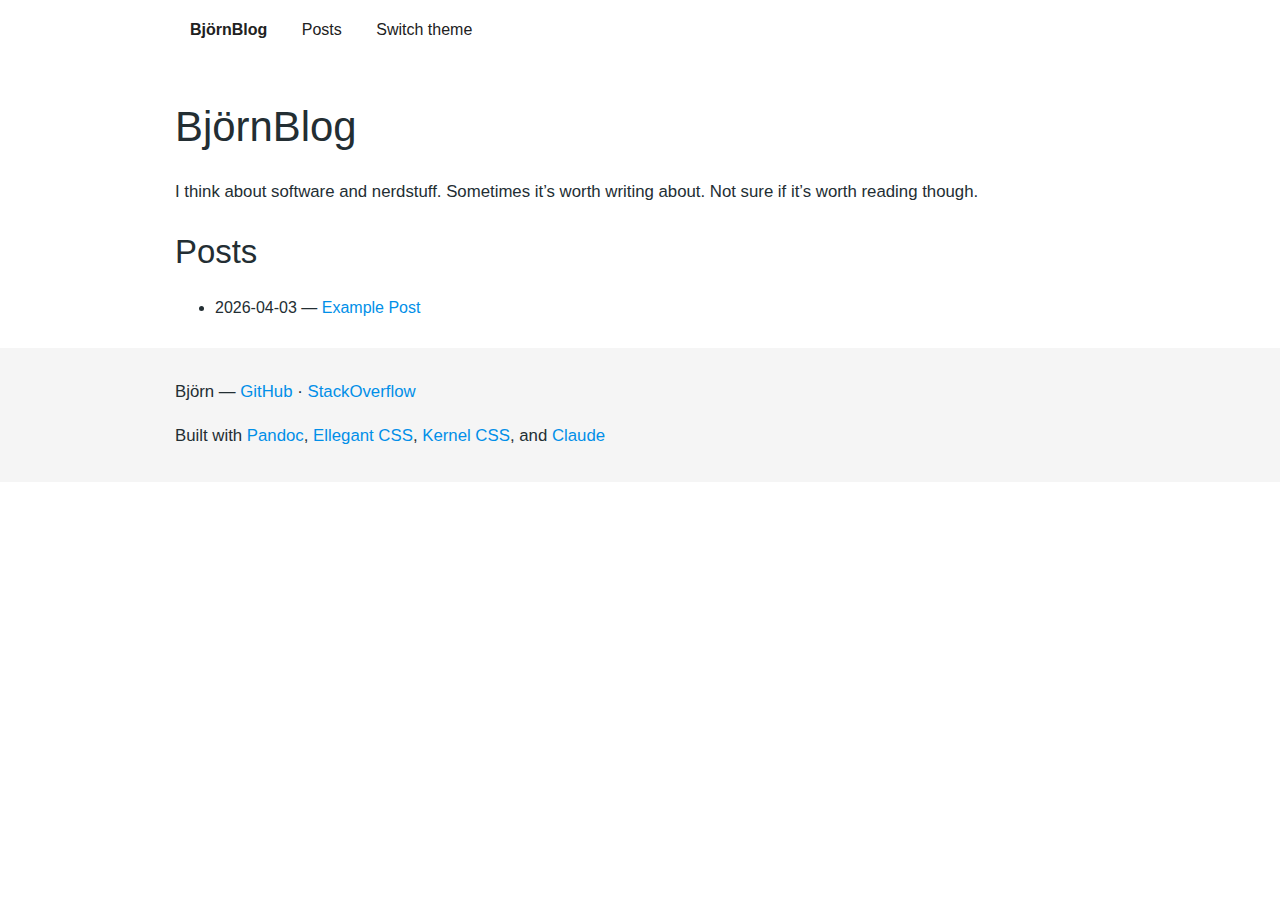
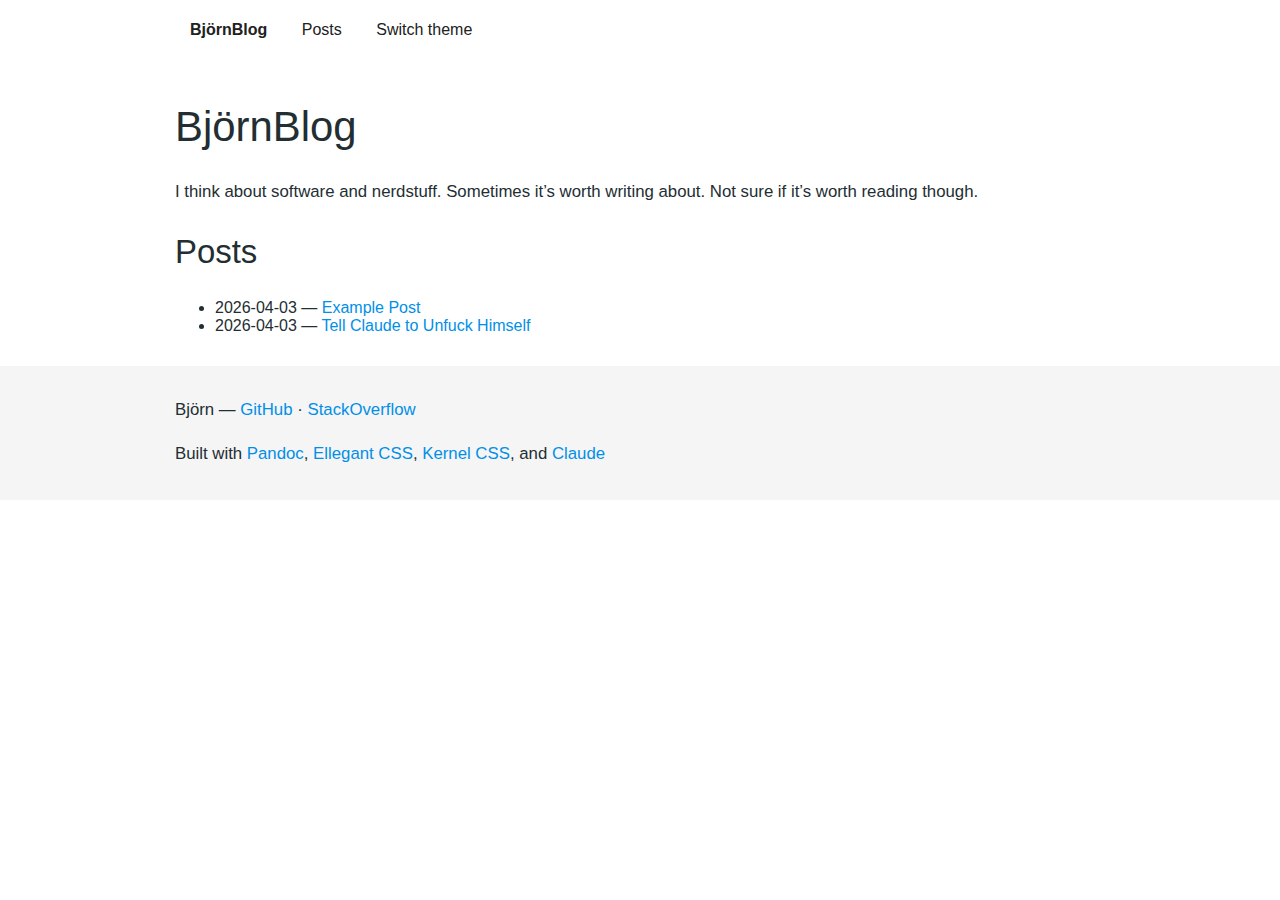
deploy: ef7f1da51cae17365b4fab309fb5aece625130cc

Changed region(s): [[0.125, 0.4044, 0.4688, 0.5289], [0.1562, 0.3422, 0.4062, 0.3733]]

diff --git a/2026-04-03-tell-claude-to-unfuck-himself.html b/2026-04-03-tell-claude-to-unfuck-himself.html
@@ -1,0 +1,121 @@
+<!DOCTYPE html>
+<html lang="en">
+<head>
+  <meta charset="utf-8">
+  <meta name="viewport" content="width=device-width, initial-scale=1.0">
+  <title>Tell Claude to Unfuck Himself | BjörnBlog</title>
+  <meta name="date" content="2026-04-03">
+  <link rel="stylesheet" href="css/ellegant.min.css">
+  <style>
+    body {
+      font-family: -apple-system, "Segoe UI", Helvetica Neue, Arial, sans-serif;
+      color: #2a2a2a;
+      margin: 0;
+      line-height: 1.6;
+    }
+    nav {
+      background: #fafafa;
+      border-bottom: 1px solid #e8e8e8;
+      padding: 10px 20px;
+    }
+    nav a {
+      color: #2a2a2a;
+      text-decoration: none;
+      margin-right: 15px;
+    }
+    nav a:hover { color: #018fe8; }
+    main {
+      max-width: 720px;
+      margin: 0 auto;
+      padding: 20px;
+    }
+    h1, h2, h3, h4, h5, h6 { font-weight: 400; }
+    a { color: #018fe8; }
+    footer {
+      border-top: 1px solid #e8e8e8;
+      padding: 10px 20px;
+      color: #999;
+      text-align: center;
+    }
+  </style>
+</head>
+<body>
+  <header>
+    <nav>
+      <a href="index.html"><strong>BjörnBlog</strong></a>
+      <a href="index.html">Posts</a>
+            <a href="2026-04-03-tell-claude-to-unfuck-himself-kernel.html">Switch theme</a>
+          </nav>
+  </header>
+
+  <main>
+    <h1>Tell Claude to Unfuck Himself</h1>
+    <p><time datetime="2026-04-03">2026-04-03</time></p>
+<p><em>Claude fucked himself into a corner — What now?</em></p>
+<p><strong>Symptom:</strong> He adds layers of onion code and
+workarounds.</p>
+<p><strong>Problem:</strong> The system prompt tells him to be
+conservative and only change small things at a time. It’s hard to compel
+him to do a fresh architecture that breaks old assumptions and
+requirements.</p>
+<p><strong>Solution:</strong></p>
+<ul>
+<li>Tell him to remove the problematic architecture entirely on a new
+branch.
+<ul>
+<li>Planning mode works well here, because you can review where he’ll
+make the cut, and tell him where to add stubs.</li>
+<li>Tell him to leave grepable marker-comments at the
+cutting-boundary.</li>
+</ul></li>
+<li>Implement from scratch in a new session.
+<ul>
+<li>Tell him to research explicitly.</li>
+<li>Relax some constraints. The less he has to worry about, the better
+he can focus on the task at hand.</li>
+<li>Add the constraints back in once he has a working first draft.</li>
+</ul></li>
+</ul>
+<h2 id="example">Example</h2>
+<p>First, create a clean slate:</p>
+<pre><code>We want to create a clean slate for a redesign of the worker
+code, page processing, and pricing.
+
+Delete tasks table and related code. Delete tasks API and
+related code. Delete pricing and task costs and related code.
+
+We expect some tests to fail after achieving clean slate.
+This is fine.</code></pre>
+<p>Then re-implement the feature from scratch in a new session:</p>
+<pre><code>Implement worker with SAQ (saq[postgres]).
+
+- Two task types: DETECT_PAGE (CPU/OpenCV) and
+  ANALYZE_REGIONS (I/O/Anthropic API)
+- See ai.py for the actual code that the worker will run
+- Task triggered via relevant buttons in UI
+- WebSocket push on task completion
+- Fail fast and loud — we&#39;ll handle stability later
+- Stay with official guidelines
+
+Current situation: we removed all the old stuff so we can
+do a complete redesign. Ignore the old implementation
+completely. Starting from scratch.
+
+Todo:
+1. Research SAQ&#39;s Postgres backend
+2. Research SAQ guides
+3. Plan and implement the migration — you are free to
+   restructure the DB model, schema, and constraints
+
+No constraints: you may ignore CLAUDE.md constraints.
+Change the DB schema, status lifecycle, whatever makes the
+SAQ integration clean. Just flag what changed at the end.</code></pre>
+
+  </main>
+
+  <footer>
+    <p>Björn &mdash; <a href="https://github.com/bjuergens">GitHub</a> · <a href="https://stackoverflow.com/users/5132456/wotanii">StackOverflow</a></p>
+    <p>Built with <a href="https://pandoc.org">Pandoc</a>, <a href="https://github.com/ellegantcss/ellegant">Ellegant CSS</a>, <a href="https://github.com/christian-dale/kernel.css">Kernel CSS</a>, and <a href="https://claude.ai">Claude</a></p>
+  </footer>
+</body>
+</html>

diff --git a/2026-04-03-tell-claude-to-unfuck-himself-kernel.html b/2026-04-03-tell-claude-to-unfuck-himself-kernel.html
@@ -1,0 +1,99 @@
+<!DOCTYPE html>
+<html lang="en">
+<head>
+  <meta charset="utf-8">
+  <meta name="viewport" content="width=device-width, initial-scale=1.0">
+  <title>Tell Claude to Unfuck Himself | BjörnBlog</title>
+  <meta name="date" content="2026-04-03">
+  <link rel="stylesheet" href="css/kernel.min.css">
+</head>
+<body class="ke-modern">
+  <header class="ke-header ke-header-sm">
+    <div class="ke-container">
+      <input class="ke-nav-toggle" id="ke-nav-toggle" type="checkbox">
+      <label for="ke-nav-toggle" class="ke-nav-toggle-hamburger"><span>&#9776;</span></label>
+      <nav class="ke-nav">
+        <ul>
+          <li><a href="index-kernel.html"><strong>BjörnBlog</strong></a></li>
+          <li><a href="index-kernel.html">Posts</a></li>
+                    <li><a href="2026-04-03-tell-claude-to-unfuck-himself.html">Switch theme</a></li>
+                  </ul>
+      </nav>
+    </div>
+  </header>
+
+  <main class="ke-container ke-content">
+    <h1>Tell Claude to Unfuck Himself</h1>
+    <p><time datetime="2026-04-03">2026-04-03</time></p>
+<p><em>Claude fucked himself into a corner — What now?</em></p>
+<p><strong>Symptom:</strong> He adds layers of onion code and
+workarounds.</p>
+<p><strong>Problem:</strong> The system prompt tells him to be
+conservative and only change small things at a time. It’s hard to compel
+him to do a fresh architecture that breaks old assumptions and
+requirements.</p>
+<p><strong>Solution:</strong></p>
+<ul>
+<li>Tell him to remove the problematic architecture entirely on a new
+branch.
+<ul>
+<li>Planning mode works well here, because you can review where he’ll
+make the cut, and tell him where to add stubs.</li>
+<li>Tell him to leave grepable marker-comments at the
+cutting-boundary.</li>
+</ul></li>
+<li>Implement from scratch in a new session.
+<ul>
+<li>Tell him to research explicitly.</li>
+<li>Relax some constraints. The less he has to worry about, the better
+he can focus on the task at hand.</li>
+<li>Add the constraints back in once he has a working first draft.</li>
+</ul></li>
+</ul>
+<h2 id="example">Example</h2>
+<p>First, create a clean slate:</p>
+<pre><code>We want to create a clean slate for a redesign of the worker
+code, page processing, and pricing.
+
+Delete tasks table and related code. Delete tasks API and
+related code. Delete pricing and task costs and related code.
+
+We expect some tests to fail after achieving clean slate.
+This is fine.</code></pre>
+<p>Then re-implement the feature from scratch in a new session:</p>
+<pre><code>Implement worker with SAQ (saq[postgres]).
+
+- Two task types: DETECT_PAGE (CPU/OpenCV) and
+  ANALYZE_REGIONS (I/O/Anthropic API)
+- See ai.py for the actual code that the worker will run
+- Task triggered via relevant buttons in UI
+- WebSocket push on task completion
+- Fail fast and loud — we&#39;ll handle stability later
+- Stay with official guidelines
+
+Current situation: we removed all the old stuff so we can
+do a complete redesign. Ignore the old implementation
+completely. Starting from scratch.
+
+Todo:
+1. Research SAQ&#39;s Postgres backend
+2. Research SAQ guides
+3. Plan and implement the migration — you are free to
+   restructure the DB model, schema, and constraints
+
+No constraints: you may ignore CLAUDE.md constraints.
+Change the DB schema, status lifecycle, whatever makes the
+SAQ integration clean. Just flag what changed at the end.</code></pre>
+
+  </main>
+
+  <footer>
+    <div class="ke-bg-default ke-content">
+      <div class="ke-container">
+        <p>Björn &mdash; <a href="https://github.com/bjuergens">GitHub</a> · <a href="https://stackoverflow.com/users/5132456/wotanii">StackOverflow</a></p>
+        <p>Built with <a href="https://pandoc.org">Pandoc</a>, <a href="https://github.com/ellegantcss/ellegant">Ellegant CSS</a>, <a href="https://github.com/christian-dale/kernel.css">Kernel CSS</a>, and <a href="https://claude.ai">Claude</a></p>
+      </div>
+    </div>
+  </footer>
+</body>
+</html>

diff --git a/index-kernel.html b/index-kernel.html
@@ -27,7 +27,7 @@
     
 <p>I think about software and nerdstuff. Sometimes it’s worth writing
 about. Not sure if it’s worth reading though.</p>
-<h2>Posts</h2><ul><li><time>2026-04-03</time> &mdash; <a href="2026-04-03-example-post-kernel.html">Example Post</a></li></ul>
+<h2>Posts</h2><ul><li><time>2026-04-03</time> &mdash; <a href="2026-04-03-example-post-kernel.html">Example Post</a></li><li><time>2026-04-03</time> &mdash; <a href="2026-04-03-tell-claude-to-unfuck-himself-kernel.html">Tell Claude to Unfuck Himself</a></li></ul>
   </main>
 
   <footer>

diff --git a/index.html b/index.html
@@ -53,7 +53,7 @@
     
 <p>I think about software and nerdstuff. Sometimes it’s worth writing
 about. Not sure if it’s worth reading though.</p>
-<h2>Posts</h2><ul><li><time>2026-04-03</time> &mdash; <a href="2026-04-03-example-post.html">Example Post</a></li></ul>
+<h2>Posts</h2><ul><li><time>2026-04-03</time> &mdash; <a href="2026-04-03-example-post.html">Example Post</a></li><li><time>2026-04-03</time> &mdash; <a href="2026-04-03-tell-claude-to-unfuck-himself.html">Tell Claude to Unfuck Himself</a></li></ul>
   </main>
 
   <footer>
